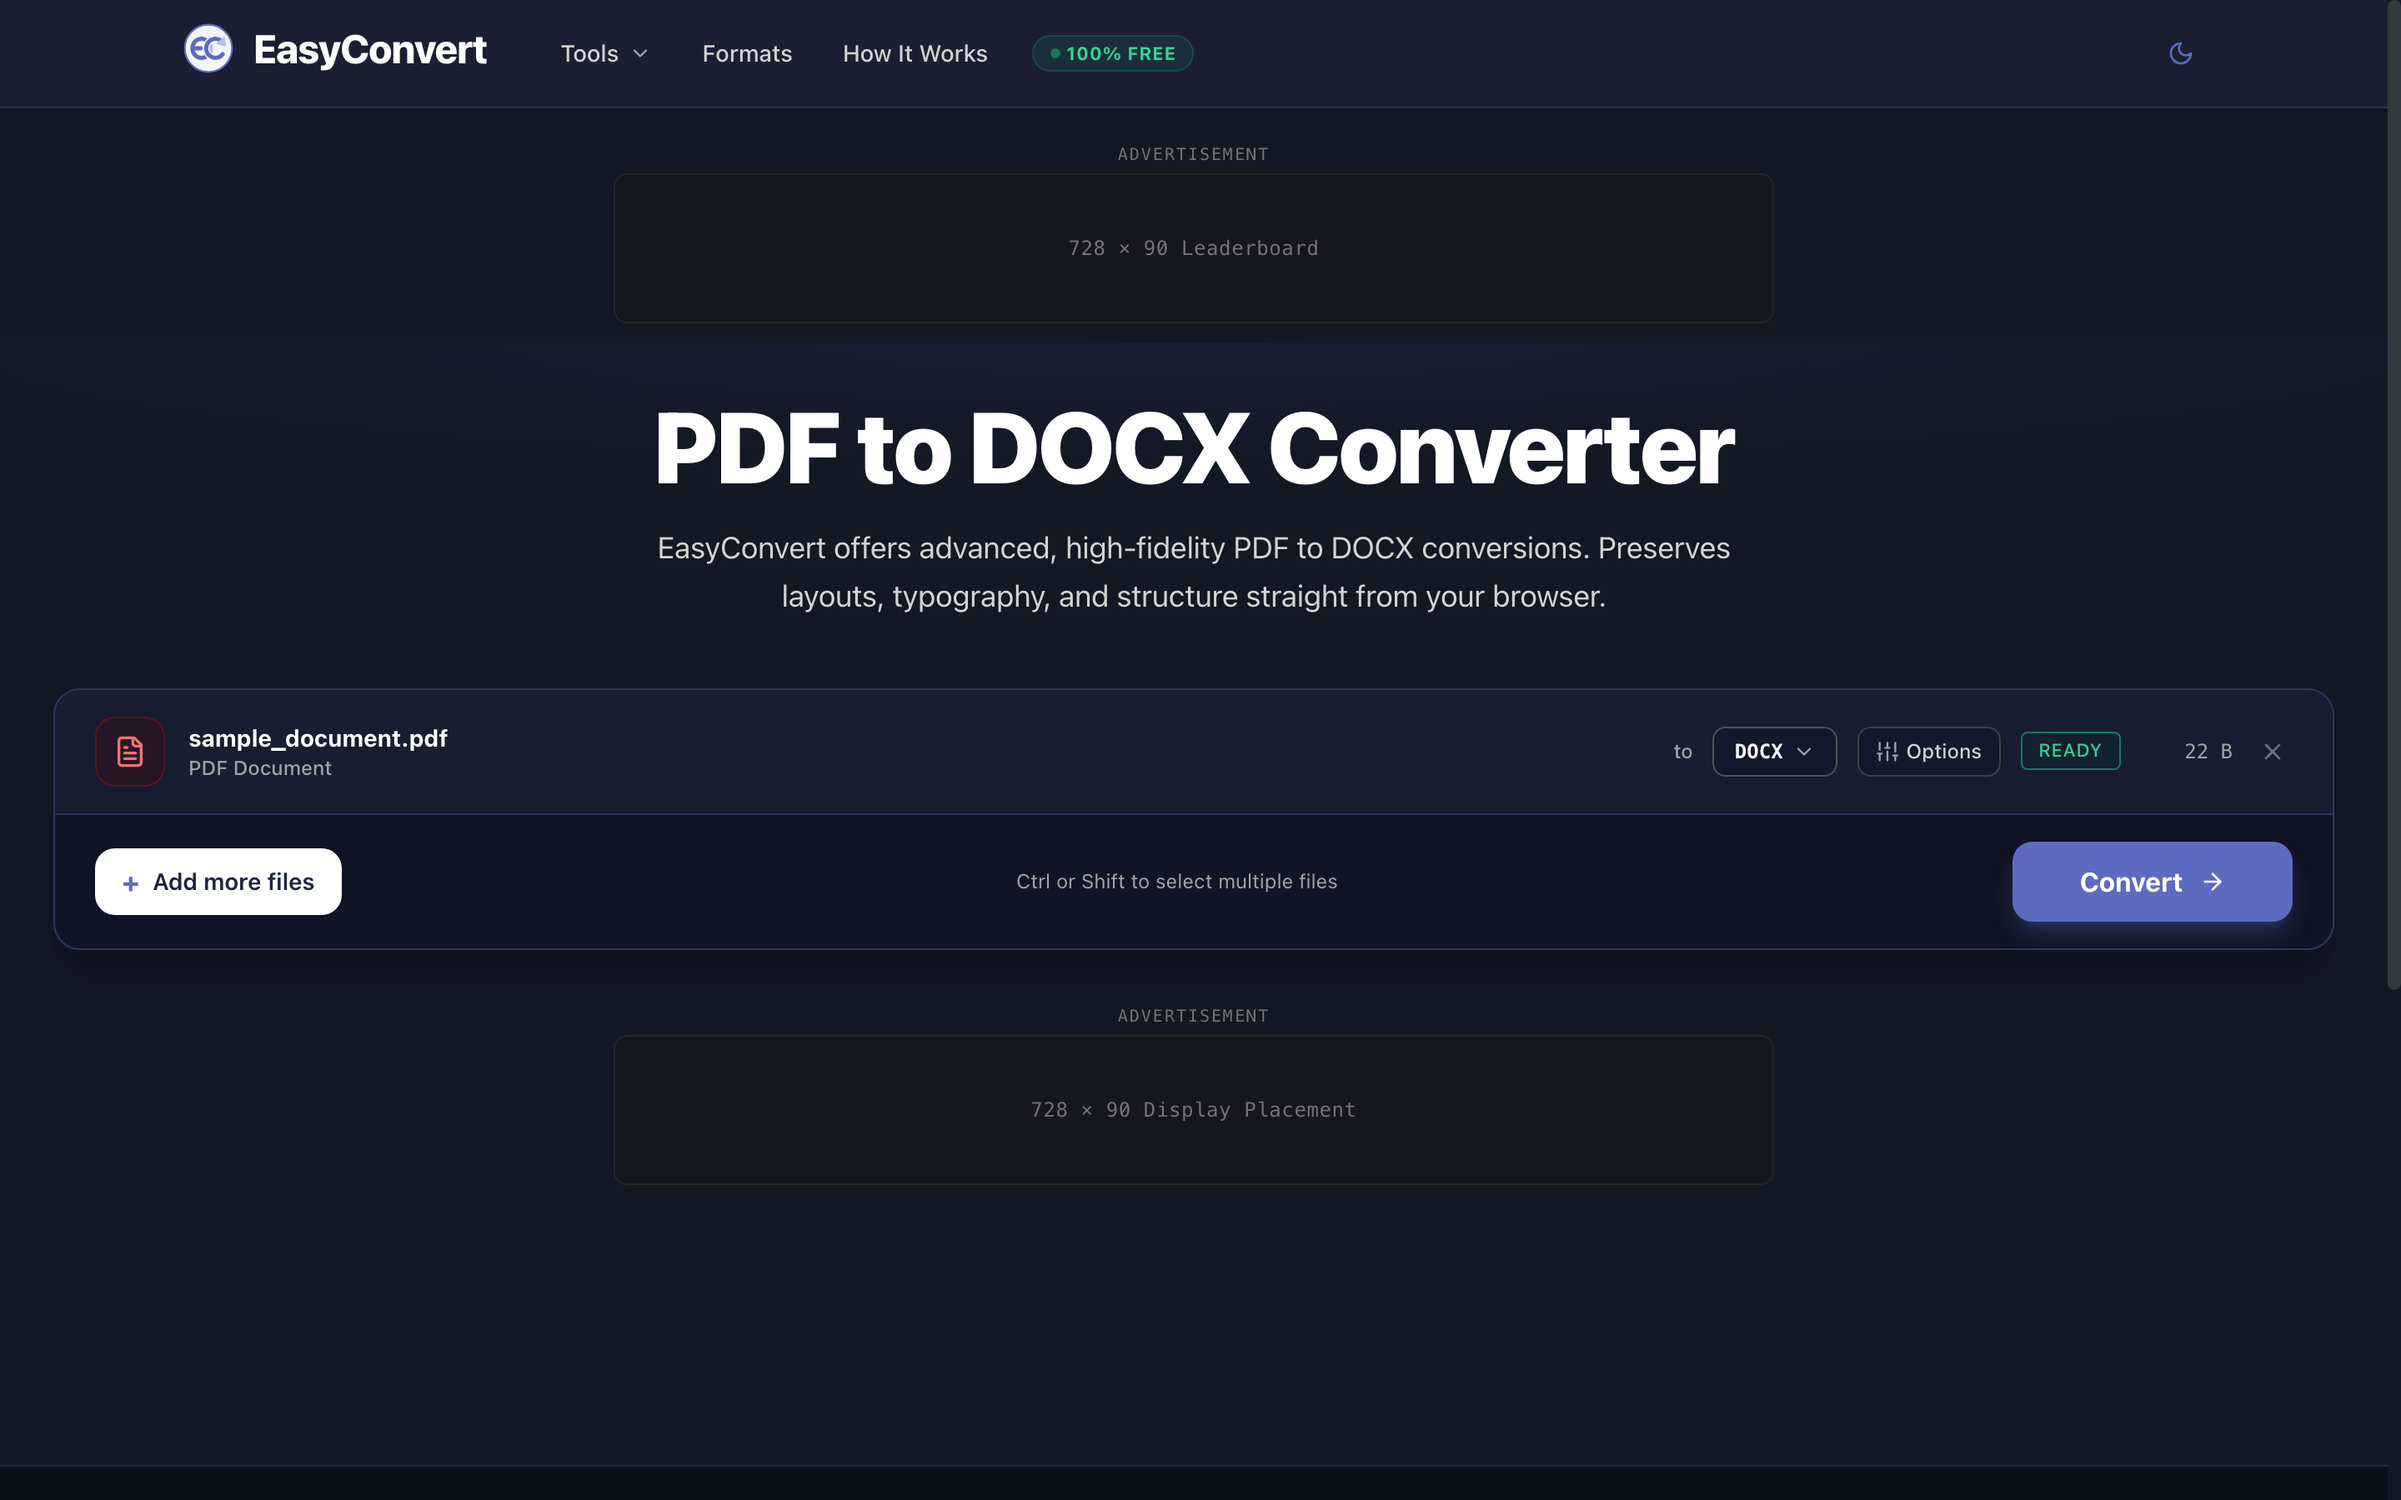
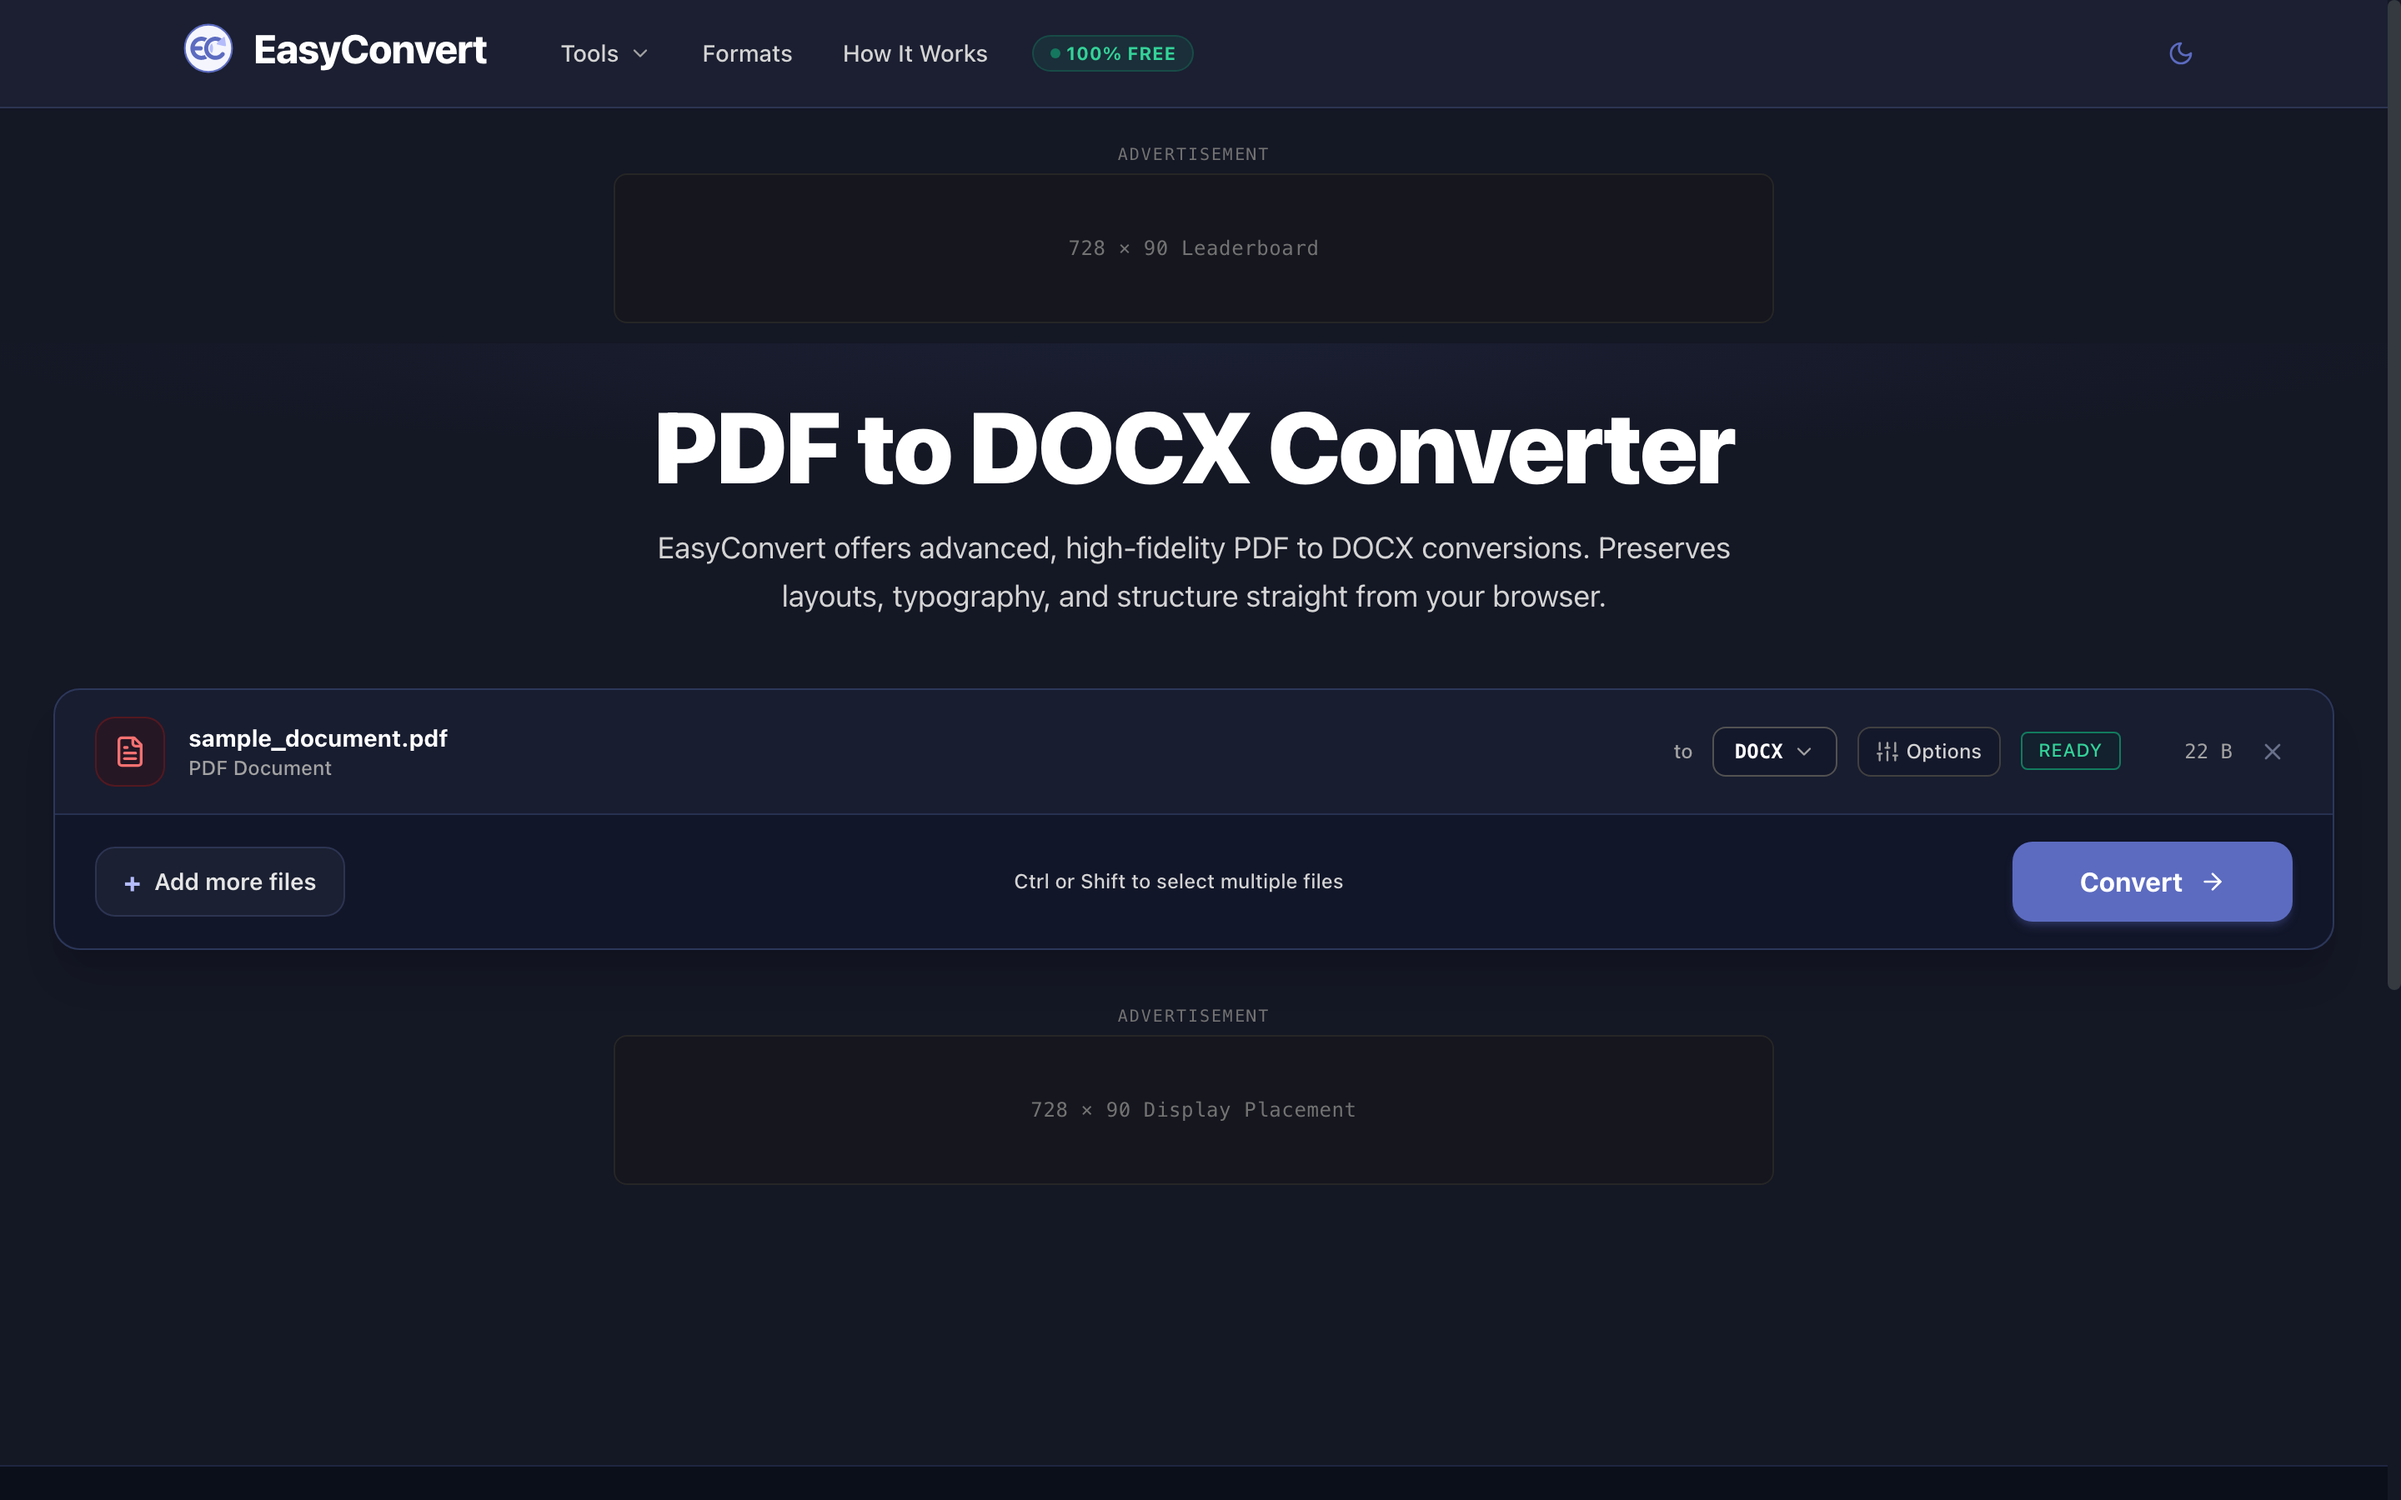
feat(ui): harmonize conversion queue dock surface and resolve top-bottom color contrast (#105)

Changed region(s): [[0.0312, 0.56, 0.1562, 0.6222], [0.4375, 0.56, 0.5625, 0.5911]]

diff --git a/src/components/ConversionQueue.tsx b/src/components/ConversionQueue.tsx
@@ -282,39 +282,39 @@ export default function ConversionQueue({
           })}
         </div>
 
-        {/* Attached Conversion Dock directly on the table card matching Reference 1 */}
-        <div className="bg-[#1F2340] dark:bg-[#111424] text-white px-5 sm:px-6 py-4 rounded-b-2xl border-t border-neutral-200 dark:border-[#2C375A] flex items-center justify-between gap-4 flex-wrap">
-          {/* Left: Add more files button matching Reference 1 */}
+        {/* Attached Conversion Dock directly on the table card with harmonious surface styling */}
+        <div className="bg-[#F8F9FD] dark:bg-[#121629] px-5 sm:px-6 py-4 rounded-b-2xl border-t border-neutral-200/80 dark:border-[#263050] flex items-center justify-between gap-4 flex-wrap transition-colors">
+          {/* Left: Add more files button with tactile secondary styling */}
           <button
             type="button"
             onClick={onAddMoreFiles}
-            className="bg-white hover:bg-neutral-100 active:bg-neutral-200 text-brand-950 rounded-xl text-xs sm:text-sm font-semibold flex items-center gap-2 px-4 py-2.5 transition-colors cursor-pointer shadow-sm"
+            className="bg-white hover:bg-neutral-50 active:bg-neutral-100 dark:bg-[#1B2032] dark:hover:bg-[#242B42] text-brand-950 dark:text-neutral-200 border border-neutral-300 dark:border-[#2C3452] rounded-xl text-xs sm:text-sm font-semibold flex items-center justify-center gap-2 px-4 py-2.5 transition-all cursor-pointer shadow-xs hover:shadow-sm w-full sm:w-auto"
           >
-            <span className="text-brand-700 font-bold text-base leading-none">+</span>
+            <span className="text-brand-700 dark:text-brand-400 font-bold text-base leading-none">+</span>
             <span>Add more files</span>
           </button>
 
-          {/* Center helper hint matching Reference 1 & 2 */}
-          <div className="hidden lg:flex items-center gap-2 text-xs text-neutral-300 dark:text-neutral-400 font-normal">
-            {!allReady ? (
-              <span className="text-amber-300 font-medium flex items-center gap-1.5">
-                <Info className="w-3.5 h-3.5 shrink-0" />
-                <span>Please select output format</span>
-              </span>
-            ) : (
+          {/* Center helper hint with high legibility */}
+          {!allReady ? (
+            <div className="flex items-center justify-center gap-1.5 text-xs font-medium text-amber-600 dark:text-amber-400 w-full lg:w-auto order-first lg:order-none py-0.5">
+              <Info className="w-3.5 h-3.5 shrink-0" />
+              <span>Please select output format</span>
+            </div>
+          ) : (
+            <div className="hidden lg:flex items-center gap-2 text-xs font-medium text-ink-secondary dark:text-neutral-300">
               <span>Ctrl or Shift to select multiple files</span>
-            )}
-          </div>
+            </div>
+          )}
 
           {/* Right: Download all zip and Convert button */}
-          <div className="flex items-center gap-3">
+          <div className="flex items-center gap-3 flex-wrap sm:flex-nowrap w-full sm:w-auto justify-end">
             {completedCount > 1 && (
               <button
                 type="button"
                 onClick={onDownloadAllZip}
-                className="flex items-center gap-1.5 px-4 py-2.5 text-xs sm:text-sm font-bold text-white bg-brand-800 hover:bg-brand-900 rounded-xl transition-colors border border-white/10 cursor-pointer"
+                className="flex items-center justify-center gap-1.5 px-4 py-2.5 text-xs sm:text-sm font-bold text-brand-800 dark:text-brand-200 bg-brand-50 hover:bg-brand-100 dark:bg-brand-900/40 dark:hover:bg-brand-900/60 border border-brand-200 dark:border-brand-700/50 rounded-xl transition-all cursor-pointer shadow-xs w-full sm:w-auto"
               >
-                <Package className="w-4 h-4" />
+                <Package className="w-4 h-4 text-brand-700 dark:text-brand-300" />
                 <span>Download All (ZIP)</span>
               </button>
             )}
@@ -323,7 +323,7 @@ export default function ConversionQueue({
               type="button"
               disabled={isConverting || !allReady}
               onClick={onConvertAll}
-              className="bg-brand-700 hover:bg-brand-800 active:bg-brand-900 text-white px-8 sm:px-10 py-3 rounded-xl font-bold text-sm sm:text-base flex items-center gap-2.5 shadow-lg shadow-brand-700/30 disabled:opacity-50 disabled:cursor-not-allowed transition-all cursor-pointer"
+              className="bg-brand-700 hover:bg-brand-800 active:bg-brand-900 text-white px-8 sm:px-10 py-3 rounded-xl font-bold text-sm sm:text-base flex items-center justify-center gap-2.5 shadow-md shadow-brand-700/25 hover:shadow-lg hover:shadow-brand-700/30 active:scale-[0.99] disabled:opacity-50 disabled:cursor-not-allowed disabled:shadow-none disabled:active:scale-100 transition-all cursor-pointer w-full sm:w-auto"
             >
               {isConverting ? (
                 <>

diff --git a/tests/redesign-verification.test.ts b/tests/redesign-verification.test.ts
@@ -468,6 +468,38 @@ describe('Redesign & Free Static Architecture Verification', () => {
     expect(slugContent).not.toContain('From Google Drive');
     expect(slugContent).not.toContain('From Dropbox');
   });
+
+  it('verifies ConversionQueue bottom dock has harmonious surface styling without stark dark navy light-mode block', () => {
+    const queuePath = path.join(rootDir, 'src', 'components', 'ConversionQueue.tsx');
+    const queueContent = fs.readFileSync(queuePath, 'utf-8');
+
+    // Must NOT have jarring dark navy background in light mode
+    expect(queueContent).not.toContain('bg-[#1F2340]');
+
+    // Must have harmonious subtle light surface and dark mode surface
+    expect(queueContent).toContain('bg-[#F8F9FD]');
+    expect(queueContent).toContain('dark:bg-[#121629]');
+
+    // Must have tactile Add more files button styling
+    expect(queueContent).toContain('border-neutral-300');
+    expect(queueContent).toContain('dark:border-[#2C3452]');
+
+    // Must have high legibility text tokens
+    expect(queueContent).toContain('text-ink-secondary');
+    expect(queueContent).toContain('dark:text-neutral-300');
+    expect(queueContent).toContain('text-amber-600');
+    expect(queueContent).toContain('dark:text-amber-400');
+
+    // Must have prominent brand.700 Convert CTA styling
+    expect(queueContent).toContain('bg-brand-700 hover:bg-brand-800 active:bg-brand-900');
+
+    // Must have refined secondary brand ZIP styling
+    expect(queueContent).toContain('bg-brand-50 hover:bg-brand-100');
+    expect(queueContent).toContain('border-brand-200');
+
+    // Must have responsive layout classes preventing mobile overflow
+    expect(queueContent).toContain('flex-wrap sm:flex-nowrap');
+  });
 });
 
 
